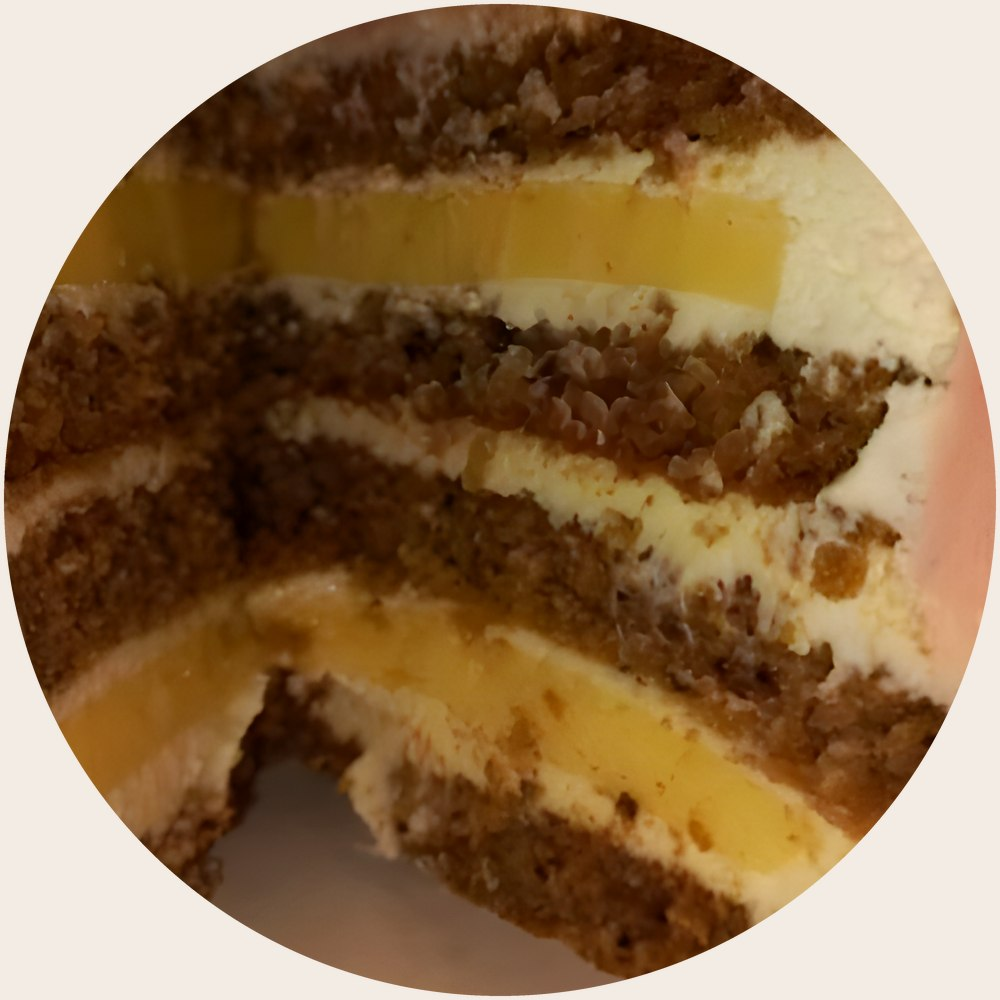
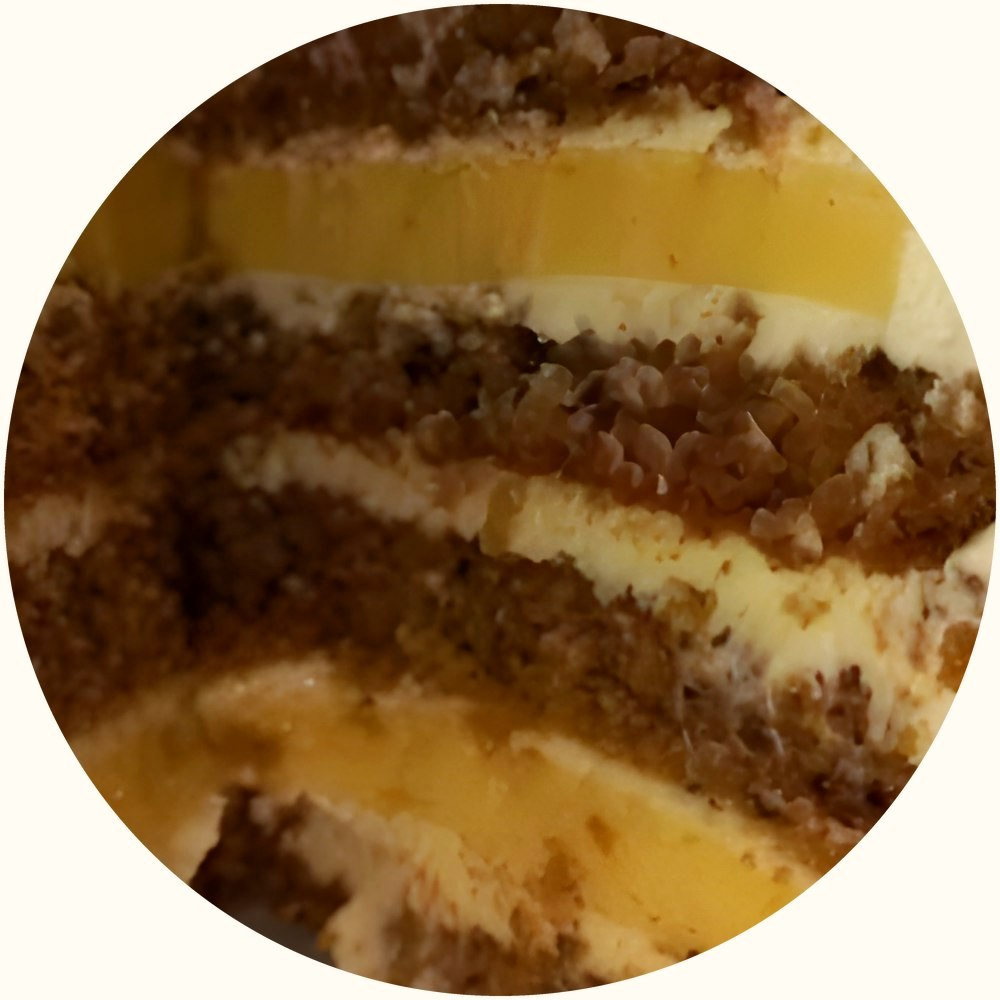
Новые фото разрезов (морковный, bubble gum); метка версии фото и скриптов против кэша

diff --git a/script.js b/script.js
@@ -183,13 +183,18 @@
     return `linear-gradient(to top, ${stops.join(", ")})`;
   }
 
+  // Файл товара из папки сайта; ?v= сбрасывает кэш после замены фото (SITE.photoVersion)
+  function localPhoto(dir, id) {
+    return `images/${dir}/${id}.jpg?v=${encodeURIComponent(SITE.photoVersion || 1)}`;
+  }
+
   function fillingPhoto(f, cls = "photo--round") {
     const box = el("div", { class: "photo " + cls + " photo--layers" });
     box.style.backgroundImage = layersGradient(SITE.layers[f.id] || SITE.defaultLayers);
-    return attachPhoto(box, [f.photo, `images/fillings/${f.id}.jpg`], `Начинка «${f.name}» в разрезе`);
+    return attachPhoto(box, [f.photo, localPhoto("fillings", f.id)], `Начинка «${f.name}» в разрезе`);
   }
 
-  const dessertSrc = (d) => [d.photo, `images/desserts/${d.id}.jpg`];
+  const dessertSrc = (d) => [d.photo, localPhoto("desserts", d.id)];
 
   /* ================= Тост ================= */
   const dialog = $("#order");

diff --git a/data.js b/data.js
@@ -18,6 +18,10 @@ window.SITE = {
   // Адрес веб-приложения Apps Script (…/exec). Пусто — сайт работает только на fallback. См. SETUP.md
   api: "https://script.google.com/macros/s/AKfycbwzl_Udcgu94t50_FCEVZ8lAZ_sYS2Ylp_QNjuoxv8V8O-WAtD1uy2WiSw3CQqQGKkS/exec",
 
+  // Версия фото товаров в images/fillings и images/desserts.
+  // Заменили файл с тем же именем — увеличьте число, и браузеры загрузят новое фото, а не старое из кэша.
+  photoVersion: 2,
+
   // Порядок категорий на сайте; новые категории из таблицы встанут после этих
   categoryOrder: ["Стандарт", "Лайт", "Премиум"],
 

diff --git a/admin/admin.js b/admin/admin.js
@@ -235,7 +235,7 @@
   function thumb(kind, item, cls = "thumb") {
     const box = el("div", { class: cls }, [el("span", { class: "thumb__letter", text: item ? item.name.charAt(0) : "📷" })]);
     // Сначала фото из таблицы, не загрузилось — файл images/<kind>/<id>.jpg
-    const srcs = item ? [item.photo, `../images/${kind}/${item.id}.jpg`].filter(Boolean) : [];
+    const srcs = item ? [item.photo, `../images/${kind}/${item.id}.jpg?v=${encodeURIComponent(SITE.photoVersion || 1)}`].filter(Boolean) : [];
     if (srcs.length) {
       const img = new Image();
       img.alt = "";

diff --git a/admin/index.html b/admin/index.html
@@ -46,8 +46,8 @@
 
   <div class="toast" id="toast" role="status" aria-live="polite"></div>
 
-  <script src="../data.js"></script>
+  <script src="../data.js?v=2"></script>
   <script src="../calendar.js"></script>
-  <script src="admin.js"></script>
+  <script src="admin.js?v=2"></script>
 </body>
 </html>

diff --git a/index.html b/index.html
@@ -234,8 +234,8 @@
 
   <div class="toast" id="toast" role="status" aria-live="polite"></div>
 
-  <script src="data.js"></script>
+  <script src="data.js?v=2"></script>
   <script src="calendar.js"></script>
-  <script src="script.js"></script>
+  <script src="script.js?v=2"></script>
 </body>
 </html>
